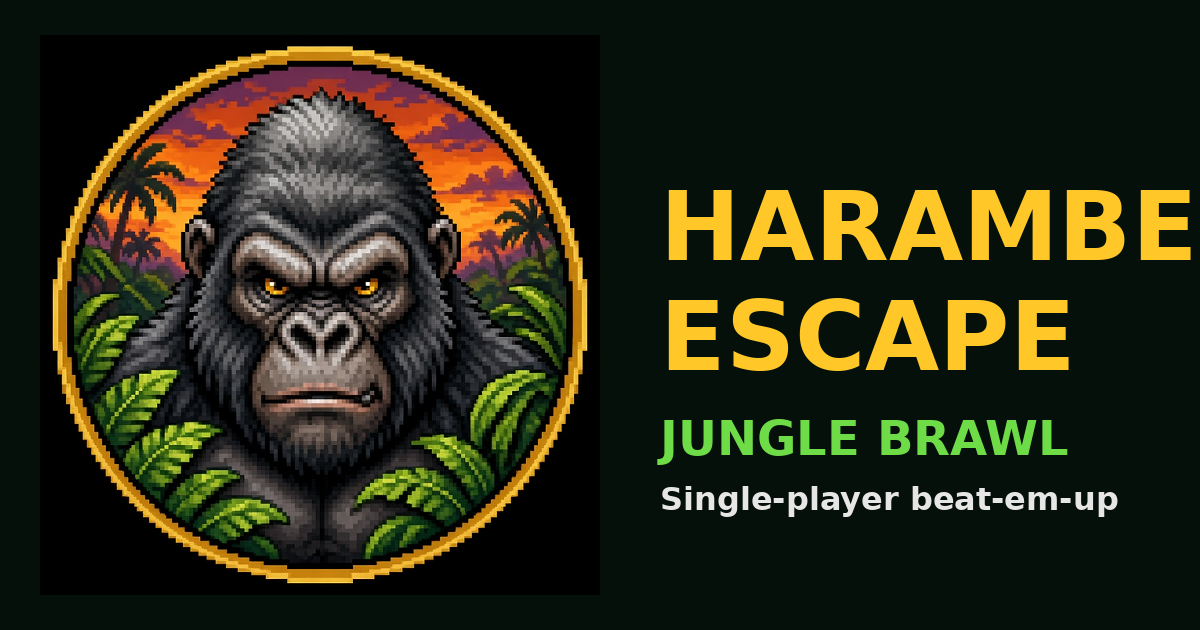
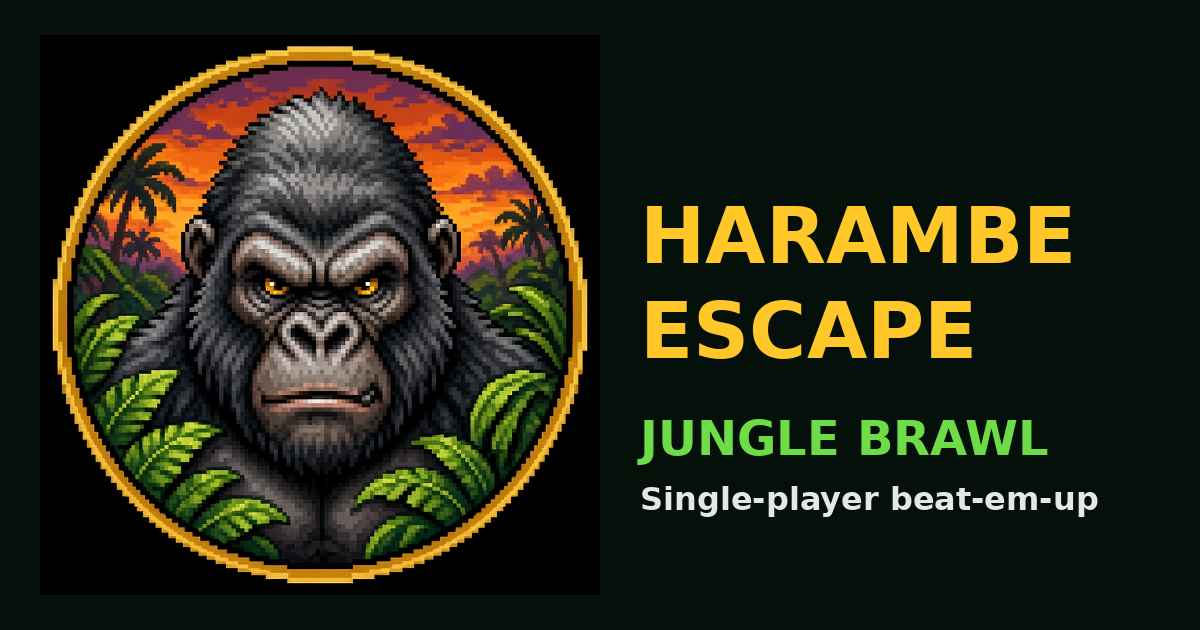
og text fit

Changed region(s): [[0.5242, 0.3016, 1.0, 0.4222], [0.5242, 0.4524, 0.8942, 0.6032], [0.5242, 0.6635, 0.9558, 0.8444]]

diff --git a/tools/build-icons-v14.py b/tools/build-icons-v14.py
@@ -27,8 +27,8 @@ d=ImageDraw.Draw(og)
 import glob
 fs=glob.glob('/usr/share/fonts/**/*Bold*.ttf',recursive=True)+glob.glob('/usr/share/fonts/**/*.ttf',recursive=True)
 f=lambda s:ImageFont.truetype(fs[0],s)
-d.text((660,170),'HARAMBE',font=f(96),fill=(255,200,40))
-d.text((660,280),'ESCAPE',font=f(96),fill=(255,200,40))
-d.text((660,410),'JUNGLE BRAWL',font=f(48),fill=(110,220,70))
-d.text((660,480),'Single-player beat-em-up',font=f(32),fill=(230,230,230))
+d.text((640,190),'HARAMBE',font=f(78),fill=(255,200,40))
+d.text((640,285),'ESCAPE',font=f(78),fill=(255,200,40))
+d.text((640,410),'JUNGLE BRAWL',font=f(48),fill=(110,220,70))
+d.text((640,480),'Single-player beat-em-up',font=f(32),fill=(230,230,230))
 out(og,'og-image-v14.png')
